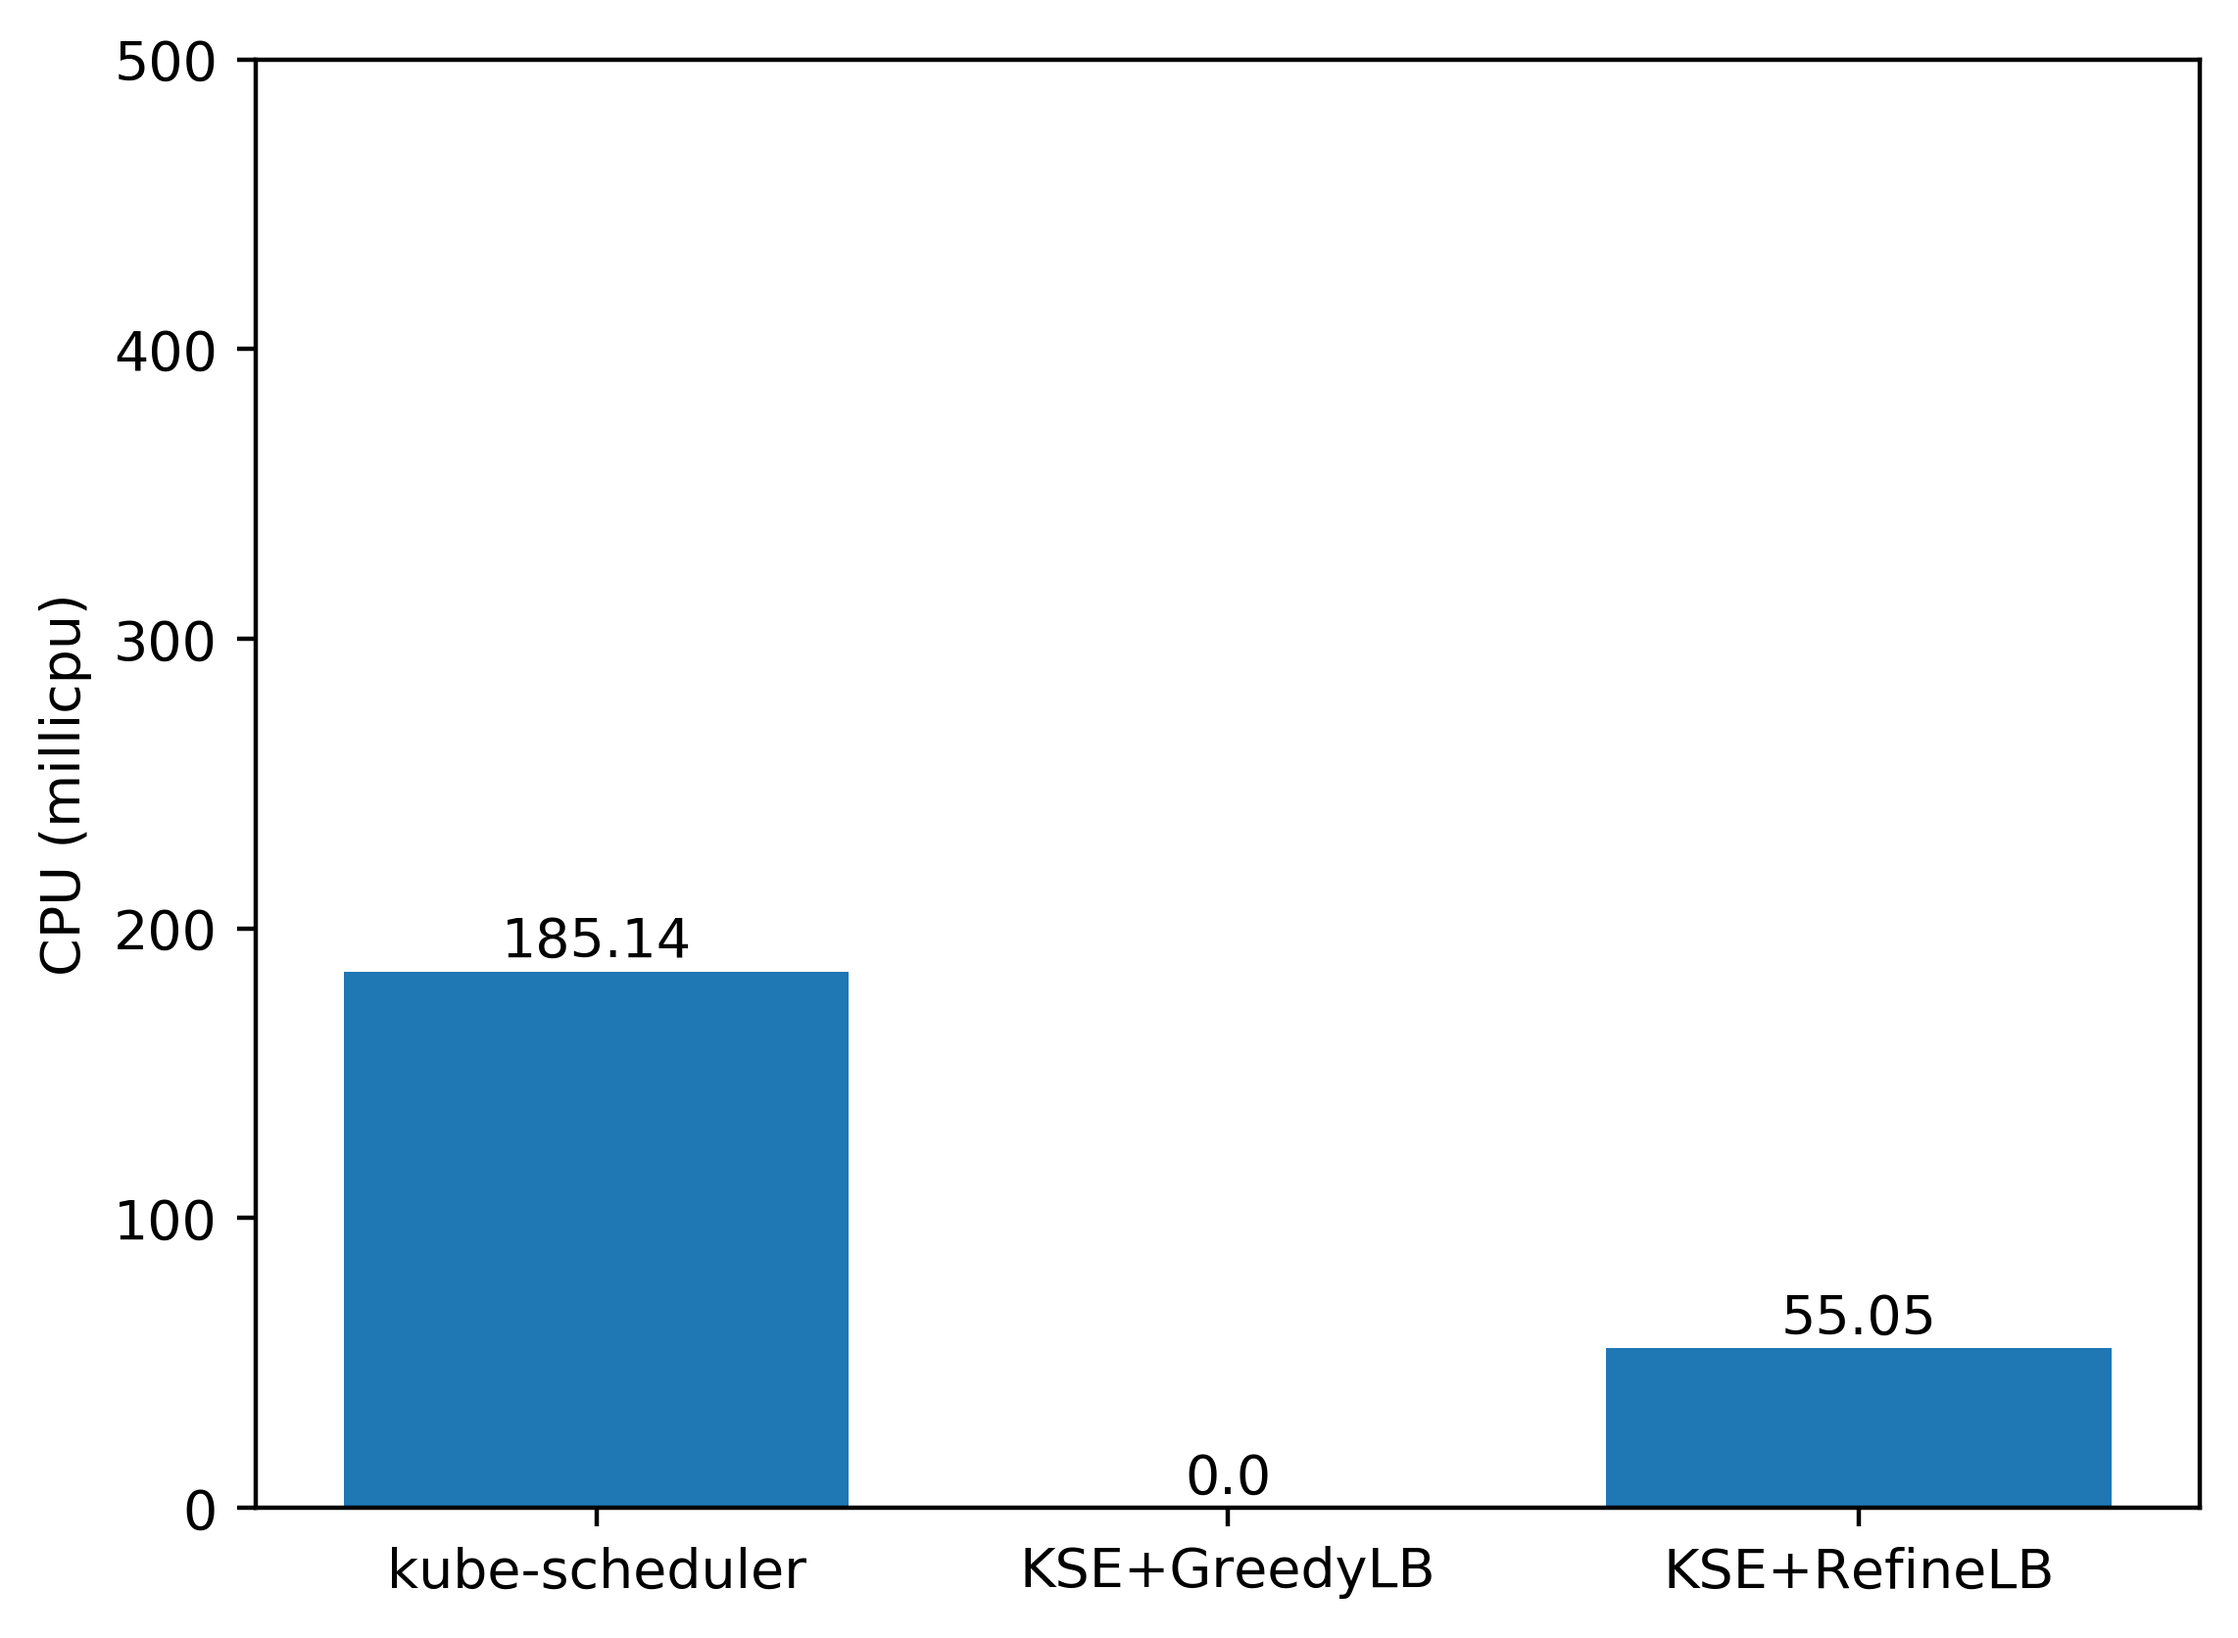
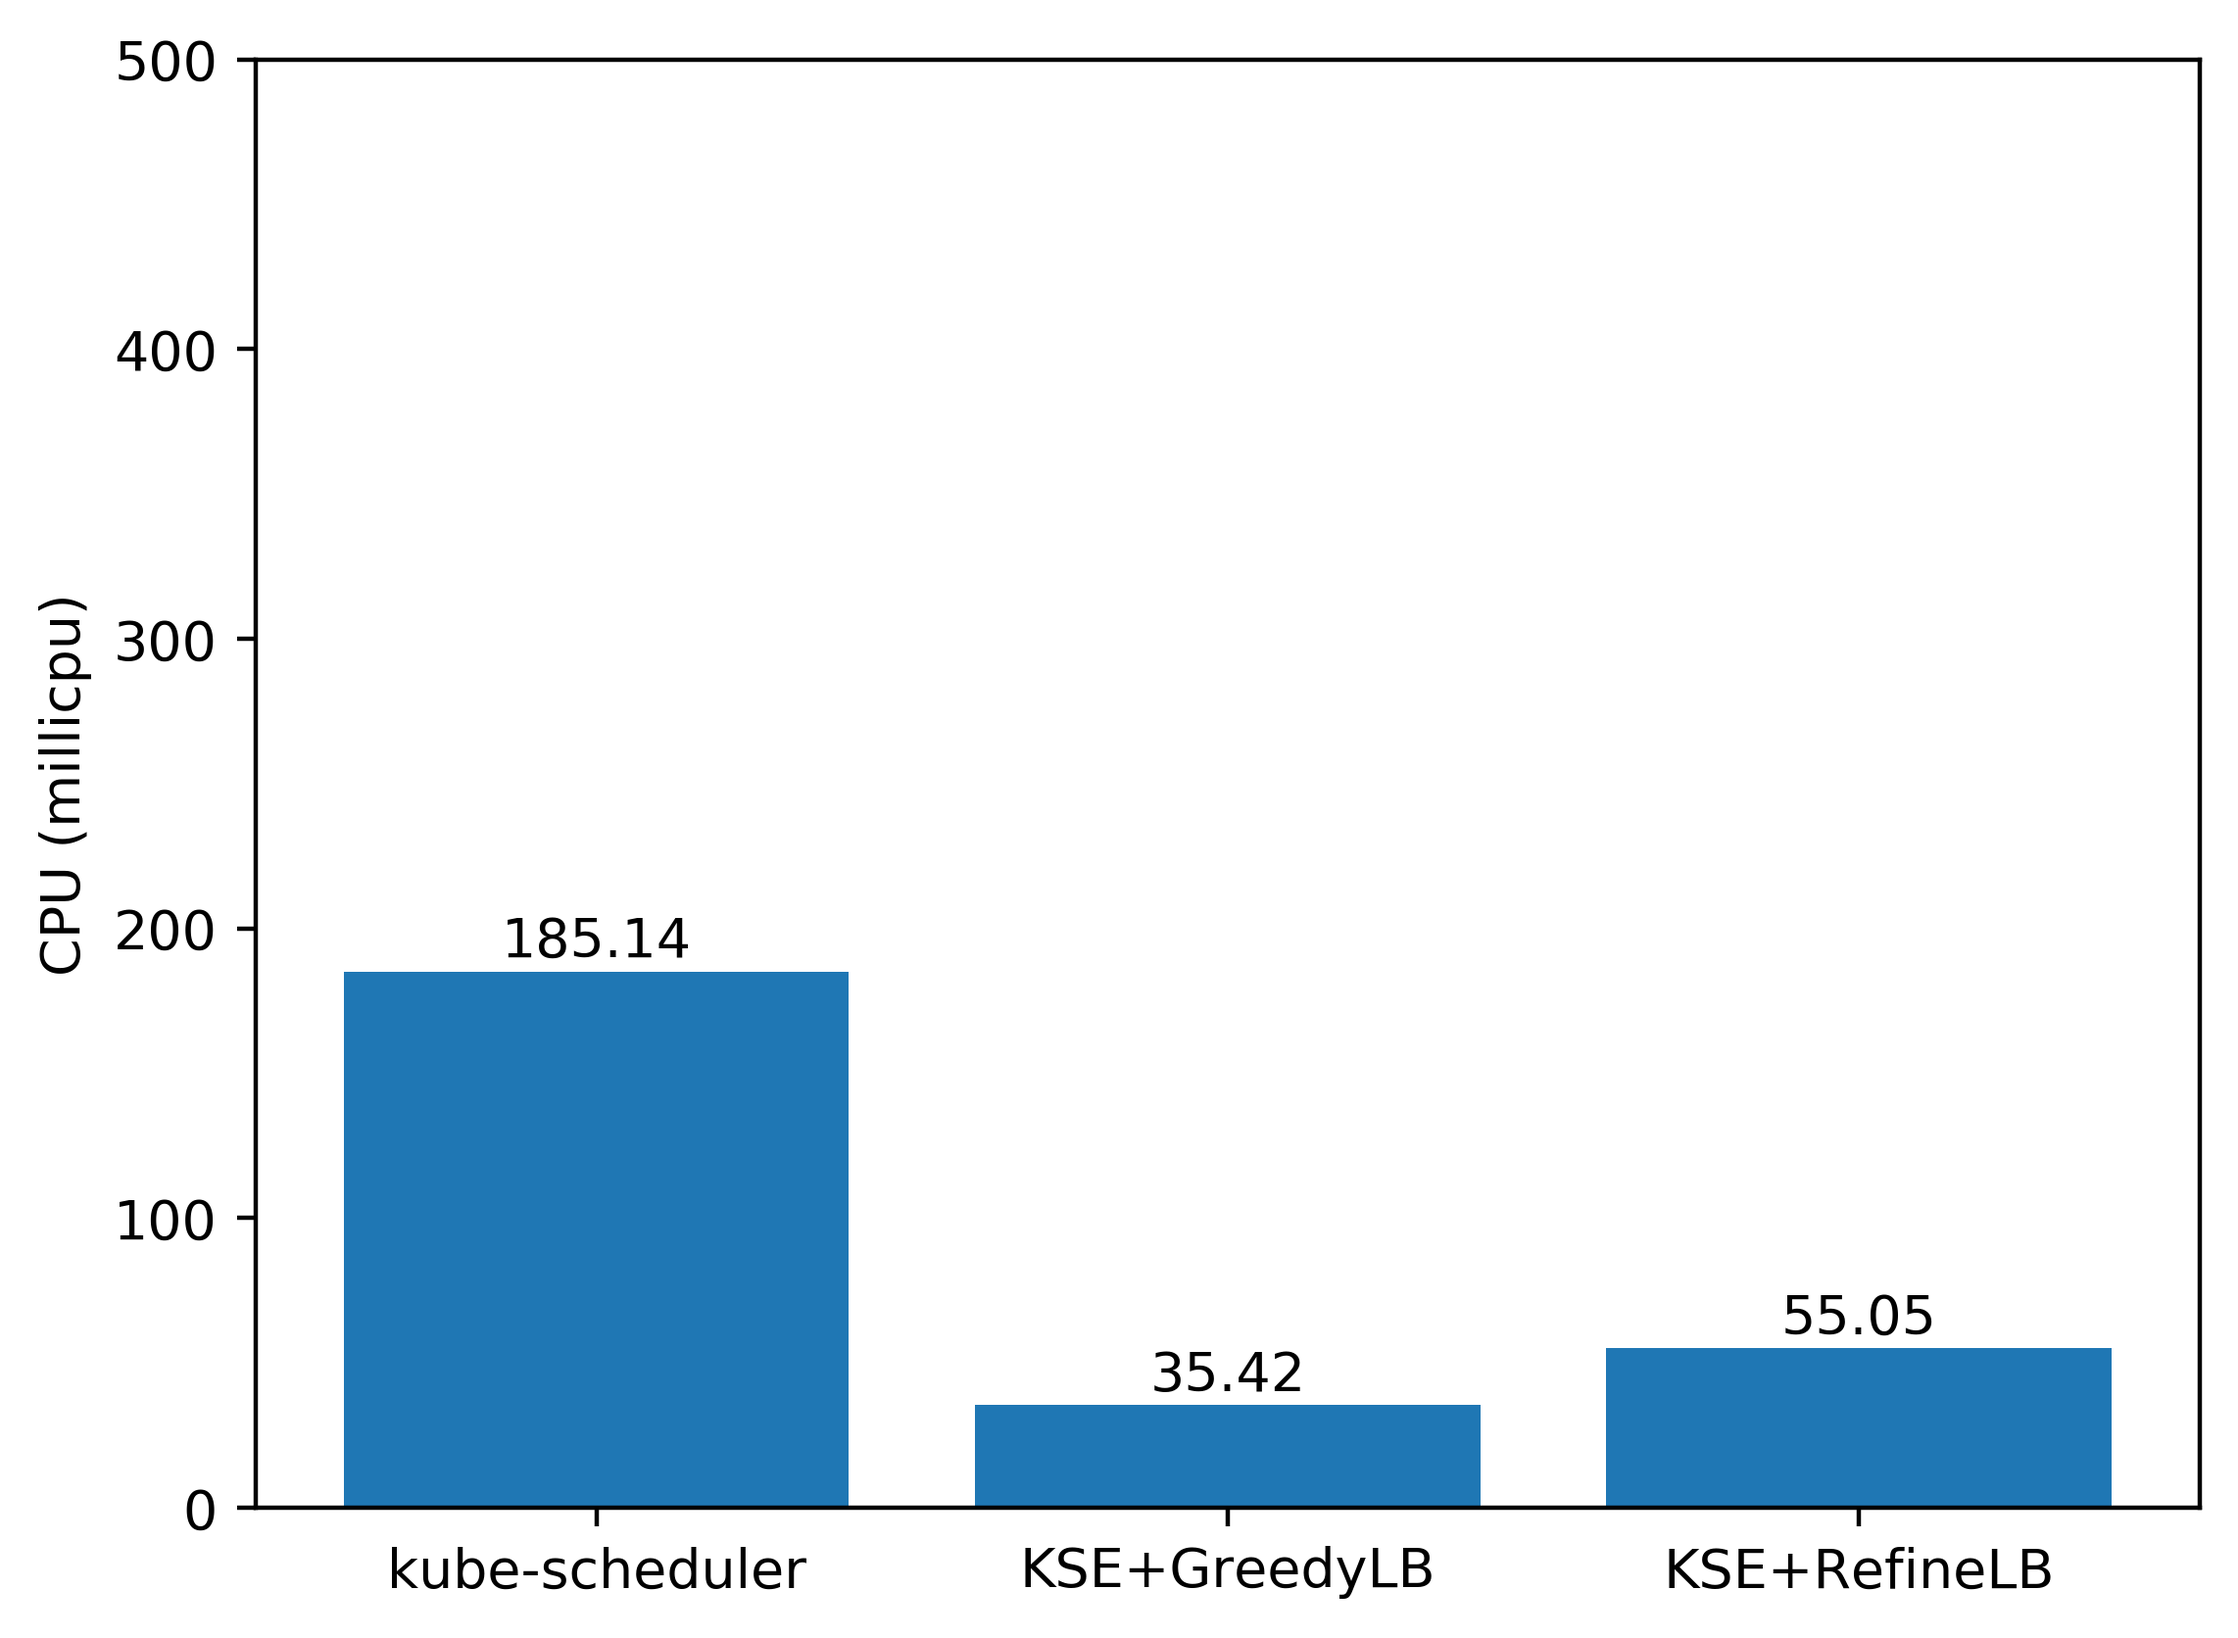
update

Changed region(s): [[0.4352, 0.8086, 0.6839, 0.933]]

diff --git a/results/summary_kse-GreedyLB_40_40_constant_exponential_cpu.html b/results/summary_kse-GreedyLB_40_40_constant_exponential_cpu.html
@@ -152,14 +152,14 @@
         <div class="box">
           <i class="fas fa-globe icon"></i>
           <h4>Total Requests</h4>
-          <div class="bignum">16213</div>
+          <div class="bignum">24000</div>
           
         </div>
         
           <div class="box failed">
             <i class="far fa-times-circle icon"></i>
             <h4>Failed Requests</h4>
-            <div class="bignum">4559</div>
+            <div class="bignum">419</div>
           </div> 
              
         <div class="box good">
@@ -206,15 +206,15 @@
                     
                     
                     
-                      <td class="">7615.34 ms</td>
+                      <td class="">169.77 ms</td>
                     
     
                     
-                      <td class="">60001.12 ms</td>
+                      <td class="">3827.69 ms</td>
                       
     
                     
-                      <td class="">146.09 ms</td>
+                      <td class="">139.58 ms</td>
                       
                     
                     
@@ -222,11 +222,11 @@
                        
                                   
                     
-                      <td class="">32905.31 ms</td>
+                      <td class="">246.07 ms</td>
                     
     
                     
-                      <td class="">44887.15 ms</td>
+                      <td class="">328.84 ms</td>
                     
                   </tr>
                 
@@ -242,15 +242,15 @@
                     
                     
                     
-                      <td class="">7613.11 ms</td>
+                      <td class="">169.64 ms</td>
                     
     
                     
-                      <td class="">60001.10 ms</td>
+                      <td class="">3827.53 ms</td>
                       
     
                     
-                      <td class="">145.96 ms</td>
+                      <td class="">139.45 ms</td>
                       
                     
                     
@@ -258,11 +258,11 @@
                        
                                   
                     
-                      <td class="">32899.61 ms</td>
+                      <td class="">245.95 ms</td>
                     
     
                     
-                      <td class="">44874.87 ms</td>
+                      <td class="">328.70 ms</td>
                     
                   </tr>
                 
@@ -278,15 +278,15 @@
                     
                     
                     
-                      <td class="">146.24 ms</td>
+                      <td class="">1.89 ms</td>
                     
     
                     
-                      <td class="">15049.10 ms</td>
+                      <td class="">3003.50 ms</td>
                       
     
                     
-                      <td class="">1.42 ms</td>
+                      <td class="">1.50 ms</td>
                       
                     
                     
@@ -298,7 +298,7 @@
                     
     
                     
-                      <td class="">2.29 ms</td>
+                      <td class="">2.34 ms</td>
                     
                   </tr>
                 
@@ -350,15 +350,15 @@
                     
                     
                     
-                      <td class="">2.17 ms</td>
+                      <td class="">0.07 ms</td>
                     
     
                     
-                      <td class="">34298.72 ms</td>
+                      <td class="">1.55 ms</td>
                       
     
                     
-                      <td class="">0.06 ms</td>
+                      <td class="">0.07 ms</td>
                       
                     
                     
@@ -370,7 +370,7 @@
                     
     
                     
-                      <td class="">0.11 ms</td>
+                      <td class="">0.12 ms</td>
                     
                   </tr>
                 
@@ -390,7 +390,7 @@
                     
     
                     
-                      <td class="">1.03 ms</td>
+                      <td class="">6.90 ms</td>
                       
     
                     
@@ -402,11 +402,11 @@
                        
                                   
                     
-                      <td class="">0.11 ms</td>
+                      <td class="">0.09 ms</td>
                     
     
                     
-                      <td class="">0.13 ms</td>
+                      <td class="">0.10 ms</td>
                     
                   </tr>
                 
@@ -422,15 +422,15 @@
                     
                     
                     
-                      <td class="">146.30 ms</td>
+                      <td class="">1.98 ms</td>
                     
     
                     
-                      <td class="">15049.18 ms</td>
+                      <td class="">3003.64 ms</td>
                       
     
                     
-                      <td class="">1.50 ms</td>
+                      <td class="">1.59 ms</td>
                       
                     
                     
@@ -438,11 +438,11 @@
                        
                                   
                     
-                      <td class="">2.19 ms</td>
+                      <td class="">2.20 ms</td>
                     
     
                     
-                      <td class="">2.40 ms</td>
+                      <td class="">2.44 ms</td>
                     
                   </tr>
                 
@@ -458,27 +458,27 @@
                     
                     
                     
-                      <td class="">13811.19 ms</td>
+                      <td class="">179.42 ms</td>
                     
     
                     
-                      <td class="">60001.80 ms</td>
+                      <td class="">30000.85 ms</td>
                       
     
                     
-                      <td class="">2033.67 ms</td>
+                      <td class="">141.25 ms</td>
                       
                     
                     
-                      <td class="">0.78 ms</td>
+                      <td class="">0.99 ms</td>
                        
                                   
                     
-                      <td class="">33293.31 ms</td>
+                      <td class="">248.03 ms</td>
                     
     
                     
-                      <td class="">46231.92 ms</td>
+                      <td class="">331.49 ms</td>
                     
                   </tr>
                 
@@ -486,63 +486,6 @@
             </table>
           </div>
           
-             <h2>Custom Metrics</h2>
-              <div class="table-responsive"> 
-                <table class="table table-striped">
-                    <thead>
-                      <tr>
-                        <th scope="col">Thresholds</th>
-                        <th scope="col">Count</th>
-                        <th scope="col">Rate</th>
-                        <th scope="col">Average</th>
-                        <th scope="col">Maximum</th>
-                        <th scope="col">Median</th> 
-                        <th scope="col">Minimum</th>
-                        <th scope="col">90%</th>
-                        <th scope="col">95%</th>
-                      </tr>
-                    </thead>
-                    <tbody>
-                    <tr>
-                      <td><b>dropped_iterations</b></td>
-      
-                      
-                        <td class="">7788.00</td>
-                      
-      
-                      
-                        <td class="">12.60</td>
-                      
-                      
-                      
-                        <td>-</td>
-                      
-      
-                      
-                        <td>-</td>
-                        
-      
-                      
-                        <td>-</td>
-                        
-                      
-                      
-                        <td>-</td>
-                         
-                                    
-                      
-                        <td>-</td>
-                      
-      
-                      
-                        <td>-</td> 
-                      
-                    </tr>
-                  </tbody>
-                </table>
-              </div>
-              
-        
         </div> 
         <!-- ---- end tab ---- -->
         <input type="radio" name="tabs" id="tabtwo">
@@ -554,34 +497,34 @@
               <div class="box info">
                 <h4>Iterations</h4>
                 <i class="fas fa-redo icon"></i>
-                <div class="row"><div>Total</div><div>16213</div></div>
-                <div class="row"><div>Rate</div><div>26.23/s</div></div>
+                <div class="row"><div>Total</div><div>24000</div></div>
+                <div class="row"><div>Rate</div><div>39.99/s</div></div>
               </div>
             
             <div class="box info">
               <h4>Virtual Users</h4>
               <i class="fas fa-user icon"></i>
               <div class="row"><div>Min</div><div>100</div></div>
-              <div class="row"><div>Max</div><div>500</div></div>
+              <div class="row"><div>Max</div><div>100</div></div>
             </div>
           </div>
           <div class="row">
             <div class="box info">
               <h4>Requests</h4>
               <i class="fas fa-globe icon"></i>
-              <div class="row"><div>Total</div><div>16213</div></div>
-              <div class="row"><div>Rate</div><div>26.23/s</div></div>
+              <div class="row"><div>Total</div><div>24000</div></div>
+              <div class="row"><div>Rate</div><div>39.99/s</div></div>
             </div>
             <div class="box info">
               <h4>Data Received</h4>
               <i class="fas fa-cloud-download-alt icon"></i>
-              <div class="row"><div>Total</div><div>2.18 MB</div></div>
-              <div class="row"><div>Rate</div><div>0.00 mB/s</div></div>
+              <div class="row"><div>Total</div><div>4.39 MB</div></div>
+              <div class="row"><div>Rate</div><div>0.01 mB/s</div></div>
             </div>
             <div class="box info">
               <h4>Data Sent</h4>
               <i class="fas fa-cloud-upload-alt icon"></i>
-              <div class="row"><div>Total</div><div>1.06 MB</div></div>
+              <div class="row"><div>Total</div><div>2.03 MB</div></div>
               <div class="row"><div>Rate</div><div>0.00 mB/s</div></div>
             </div>   
           </div>
